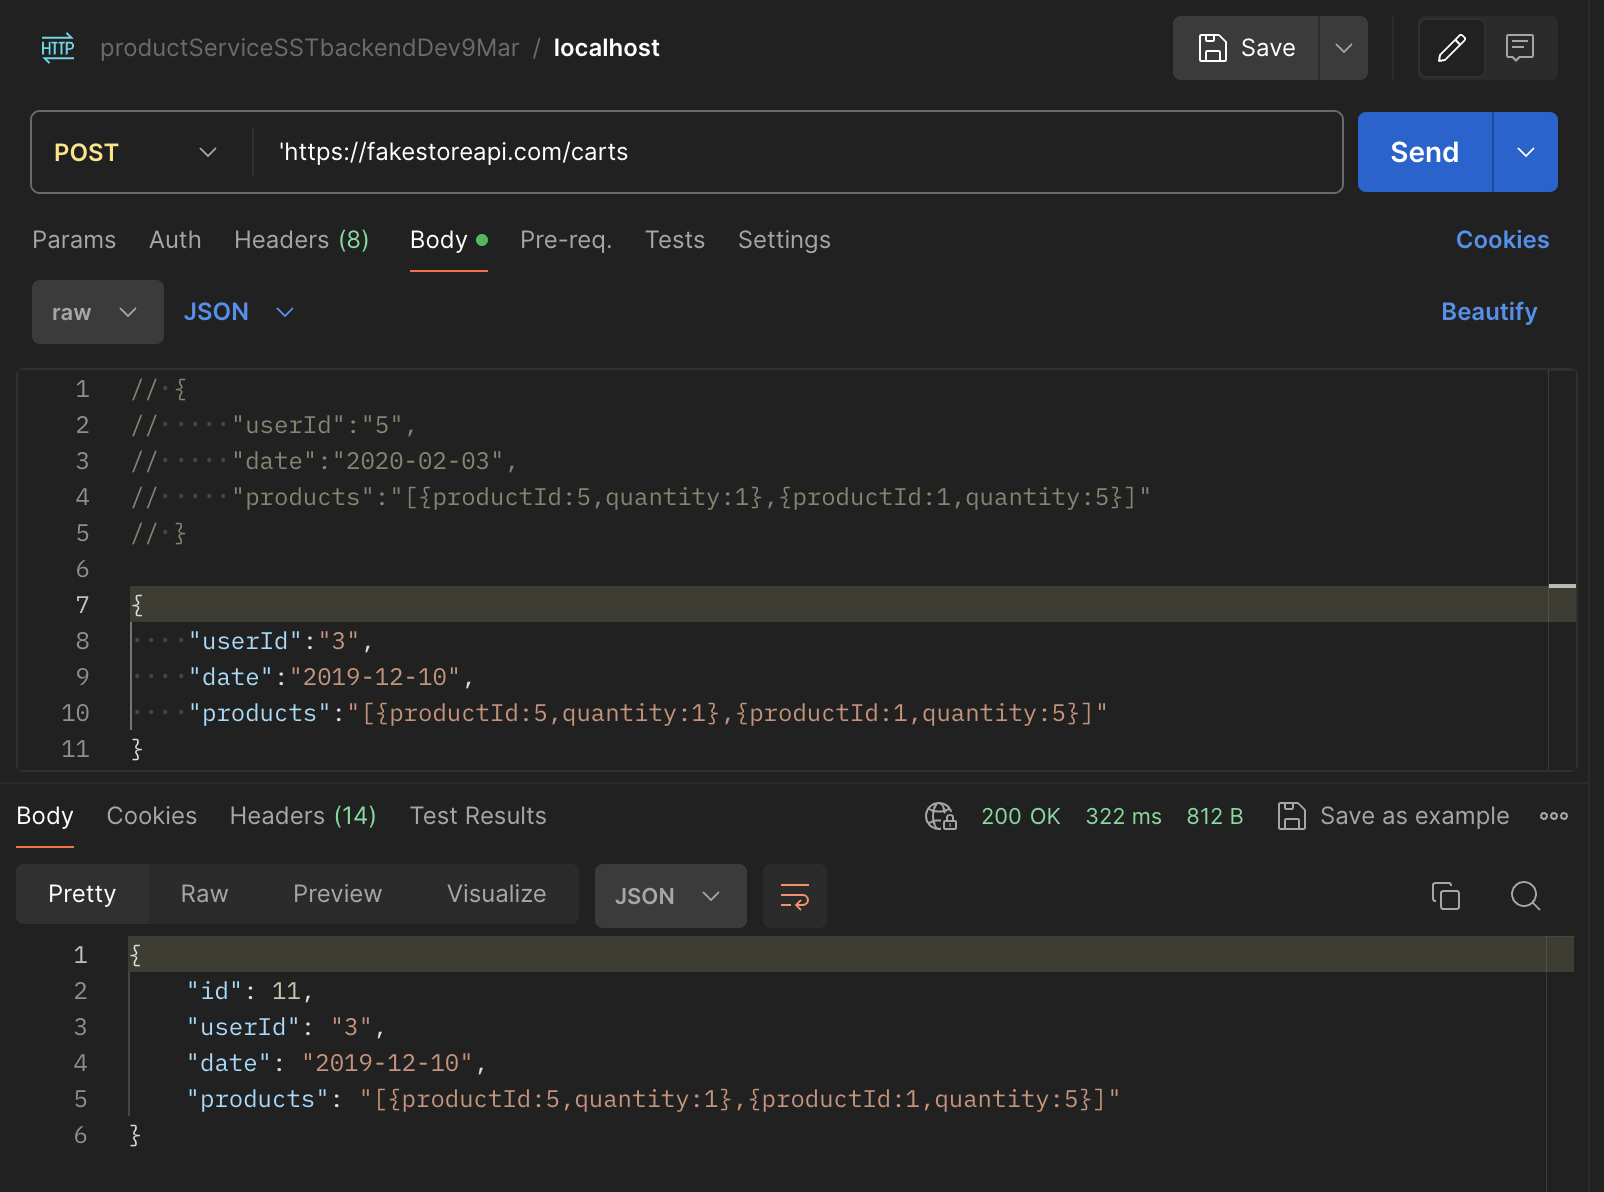
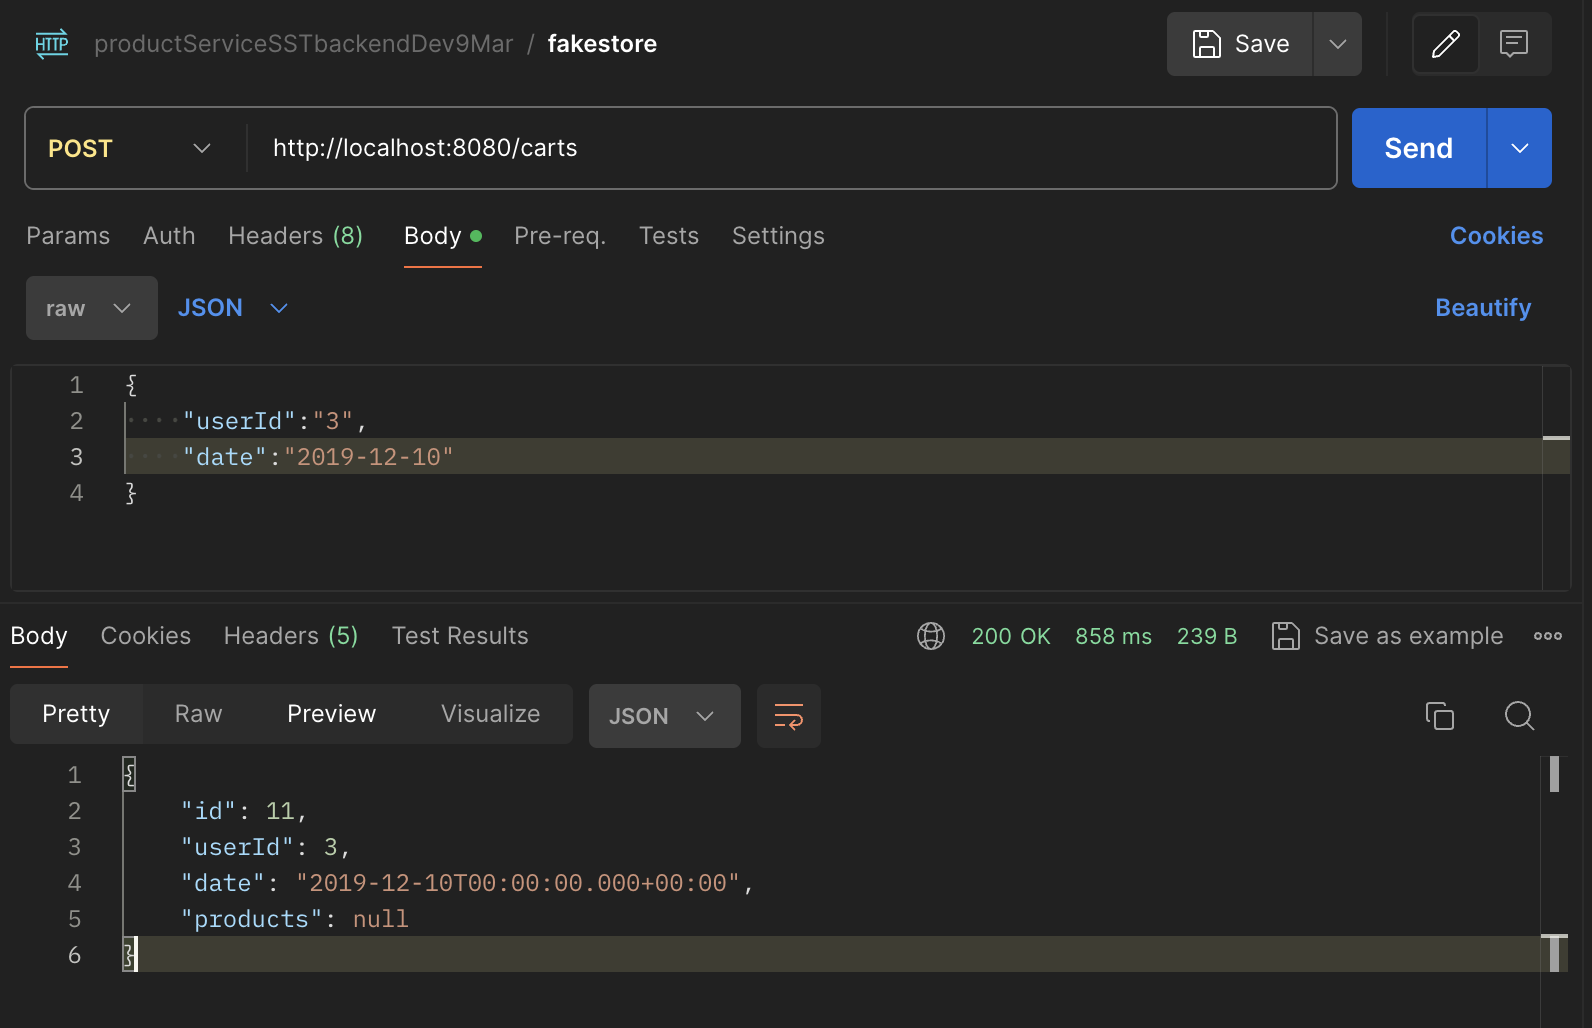
Adding pictures

diff --git a/src/main/java/com/example/backenddevmidterms/Services/CartServiceImpl.java b/src/main/java/com/example/backenddevmidterms/Services/CartServiceImpl.java
@@ -82,7 +82,7 @@ public class CartServiceImpl implements CartService{
         cartDTO.setUserId(cart.getUserId());
         cartDTO.setDate(cart.getDate());
         cartDTO.setProducts(cart.getProducts());
-        CartDTO response = restTemplate.postForObject("https://fakestoreapi.com/carts", cartDTO, CartDTO.class);
+        CartDTO response = restTemplate.postForObject("https://fakestoreapi.com/carts", cart, CartDTO.class);
         return mapToCart(response);
     }
 
